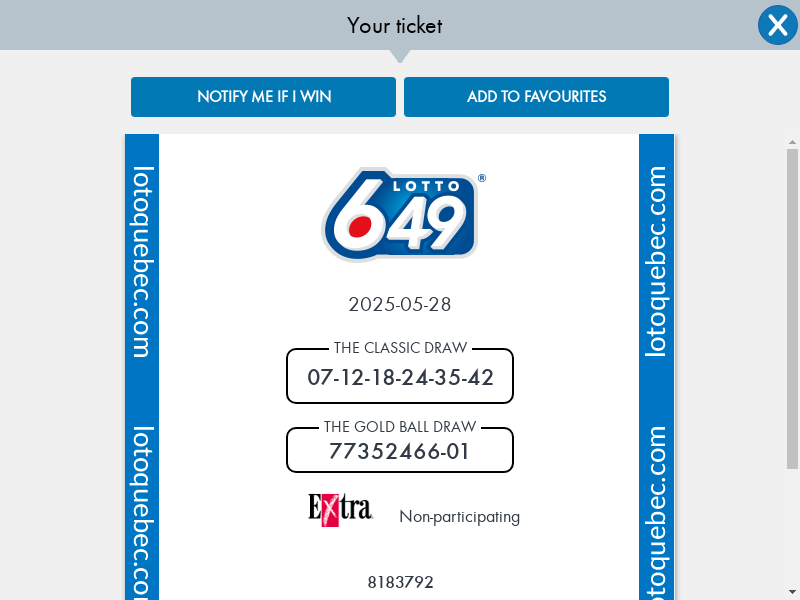
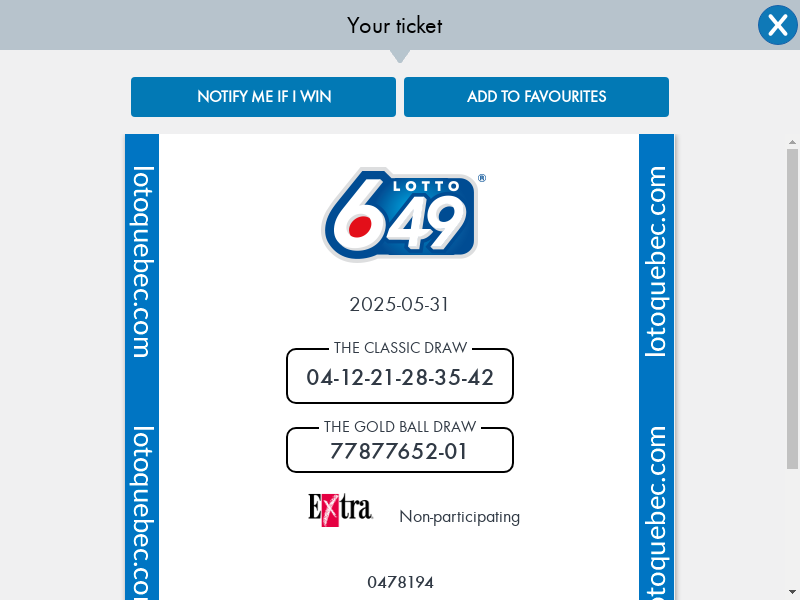
auto commit

diff --git a/docs/index.html b/docs/index.html
@@ -76,7 +76,14 @@
             </tr>
             </thead>
             <tbody>
-            <tr><td>2025-05-24</td><td>07-12-18-24-35-42</td><td>empty</td><td>{
+            <tr><td>2025-05-28</td><td>04-12-21-28-35-42</td><td>empty</td><td>{
+  "generate_nums": ["04", "12", "21", "28", "35", "42"]
+}</td></tr>
+<tr><td>2025-05-24</td><td>07-12-18-24-35-42</td><td>match 1 number, win number: The Classic Draw
+
+
+06-13-28-31-34-48 Bonus (B):
+(42)</td><td>{
   "generate_nums": ["07", "12", "18", "24", "35", "42"]
 }</td></tr>
 <tr><td>2025-05-21</td><td>07-11-18-29-34-42</td><td>match 1 number, win number: The Classic Draw
